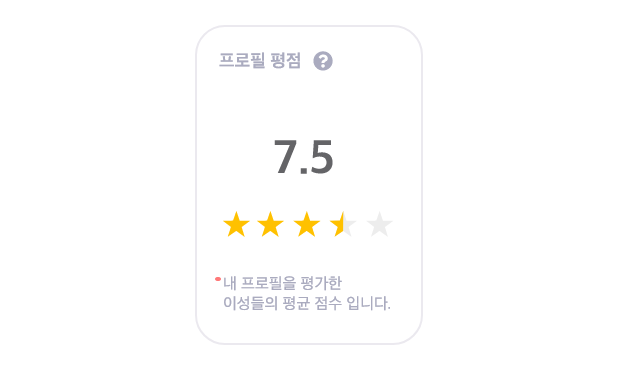
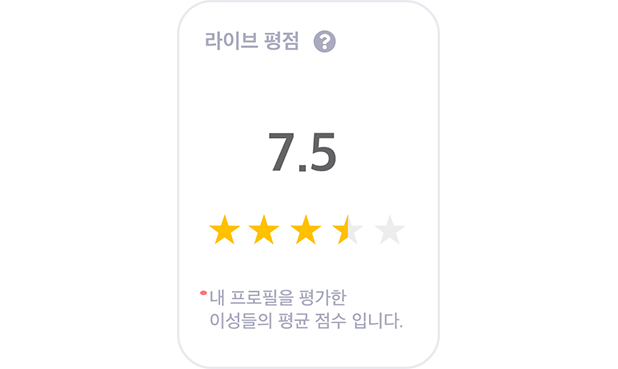
수정

diff --git a/src/screens/roby/index.tsx b/src/screens/roby/index.tsx
@@ -636,7 +636,7 @@ export const Roby = (props: Props) => {
 
               {memberBase?.reex_yn == 'Y' ? (
                 <RatingCard
-                  title={'프로필 심사중'}
+                  title={'라이브 심사중'}
                   //desc={'내 프로필에 ' + memberBase?.profile_eval_cnt + '명의 회원님이\n평가를 남겨 주셨어요.'}
                   desc={'LIVE에서 노출되고 있는 내 프로필을 회원님들이 직접 평가 진행중 이에요.'}
                   value={memberBase?.profile_score}
@@ -674,13 +674,13 @@ export const Roby = (props: Props) => {
 
           {memberBase?.reex_yn == 'Y' ? (
             <View style={[_styles.pennding, layoutStyle.mb20]}>
-              <Text style={_styles.submitText}>내 프로필 심사 진행중!</Text>
+              <Text style={_styles.submitText}>내 프로필 사진이 라이브에 공개되고 있어요.</Text>
             </View>
           ) : (
             <TouchableOpacity
               onPress={() => profileReexPopupOpen()}
               style={_styles.submitBtn}>
-              <Text style={_styles.submitText}>내 프로필 재심사</Text>
+              <Text style={_styles.submitText}>라이브 재심사</Text>
             </TouchableOpacity>
           )}
 

diff --git a/src/screens/commonpopup/GuidePopup.tsx b/src/screens/commonpopup/GuidePopup.tsx
@@ -249,7 +249,7 @@ export const GuidePopup = (props: Props) => {
                                       <>
                                         <Text style={[_styles.liveTxt02, {marginBottom: 8}]}>#라이브 평점</Text>
                                         <Text style={_styles.liveTxt03}>
-                                          <Text style={{color: '#697AE6'}}>"내 프로필 재심사"</Text>를 받고 높은 라이브 평점에 도전해보세요.!{'\n'}
+                                          <Text style={{color: '#697AE6'}}>"내 라이브 재심사"</Text>를 받고 높은 라이브 평점에 도전해보세요.!{'\n'}
                                           {/* 프로필 평점 <Text style={{color: '#697AE6'}}>7.0</Text>이 되면 프로필 인증 레벨이 <Text style={{color: '#697AE6'}}>+1</Text>이 가산돼요.{'\n'}
                                           (7 / 8 / 9 / 10 마다 +1씩 가산) */}
                                         </Text>
